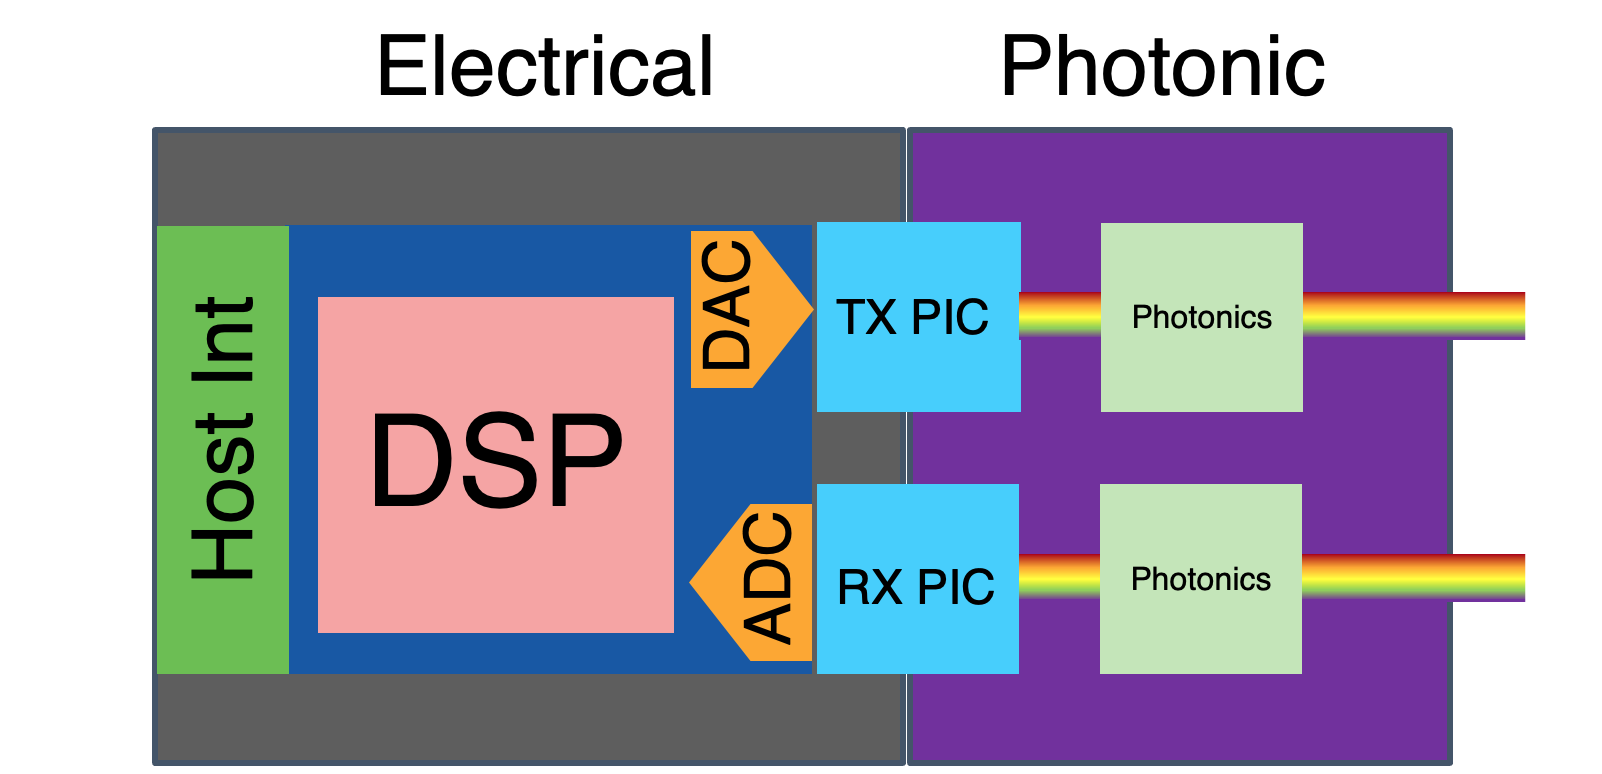
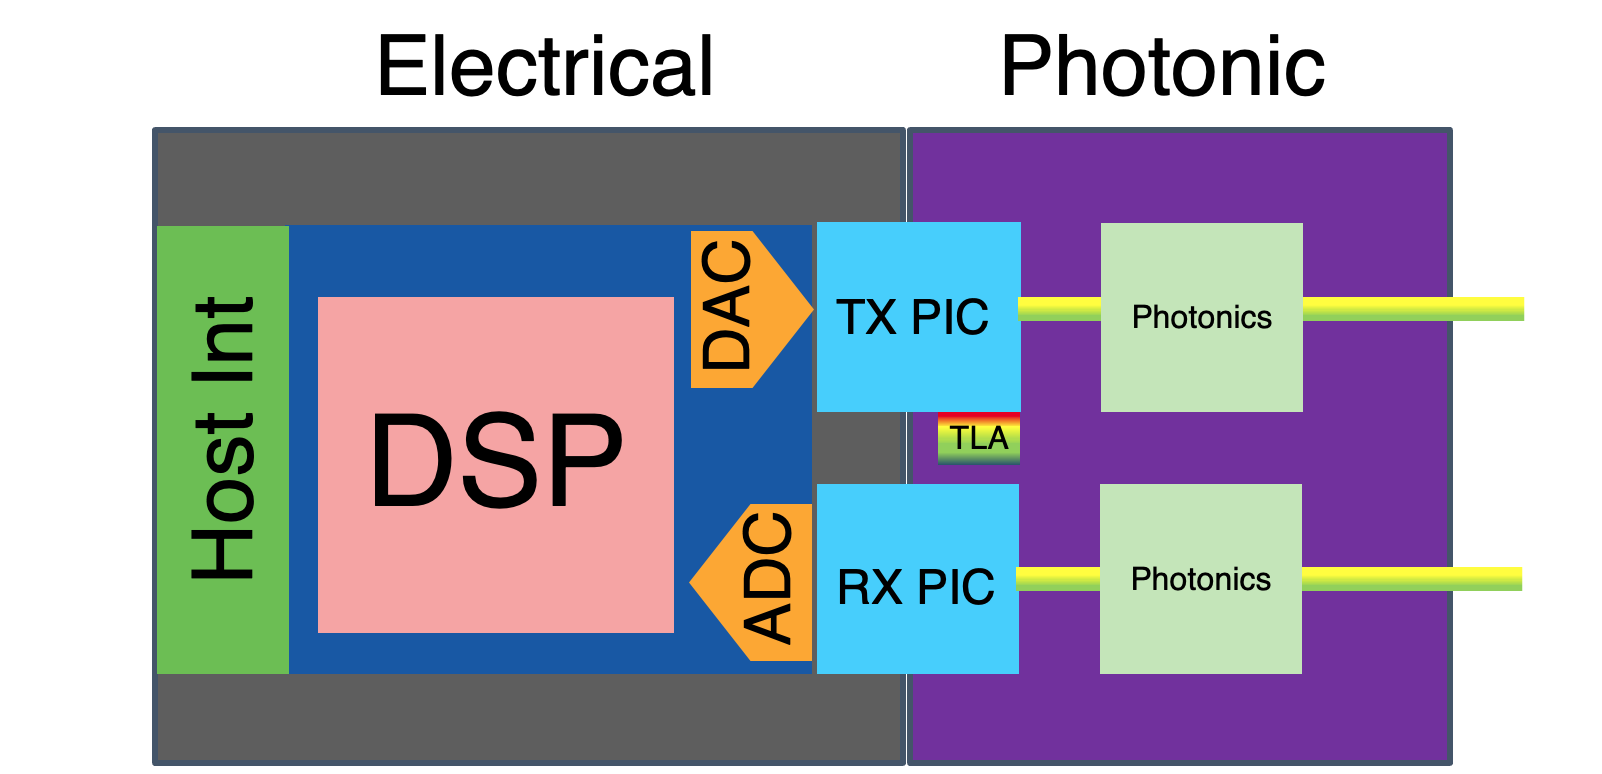
updated picture

diff --git a/_blogs/2024-0210-dco-monitoring.md b/_blogs/2024-0210-dco-monitoring.md
@@ -159,10 +159,10 @@ electrical analog to an optical signal.
 While the DSP takes on many functions performed by photonic components in the
 past, we still need photonic components to send/receive light across fiber. The
 optical components within the DCO are similar to those found in non-DCO
-applications. Common components are the TLA (Tunable Laser Assembly) along with 
-TOFs (Tunable Optical Filter) and other pure photonic components such as 
-splitters, combiners, and waveguides. In higher power optics, an integrated EDFA 
-is used to amplify the signal before it leaves the DCO.   
+applications. Common components are the TLA (Tunable Laser Assembly) generating
+the signal along with TOFs (Tunable Optical Filter) and other pure photonic
+components such as splitters, combiners, and waveguides. In higher power optics,
+an integrated EDFA is used to amplify the signal before it leaves the DCO.   
 
 ## Photonic Integrated Circuit (PIC) 
 
